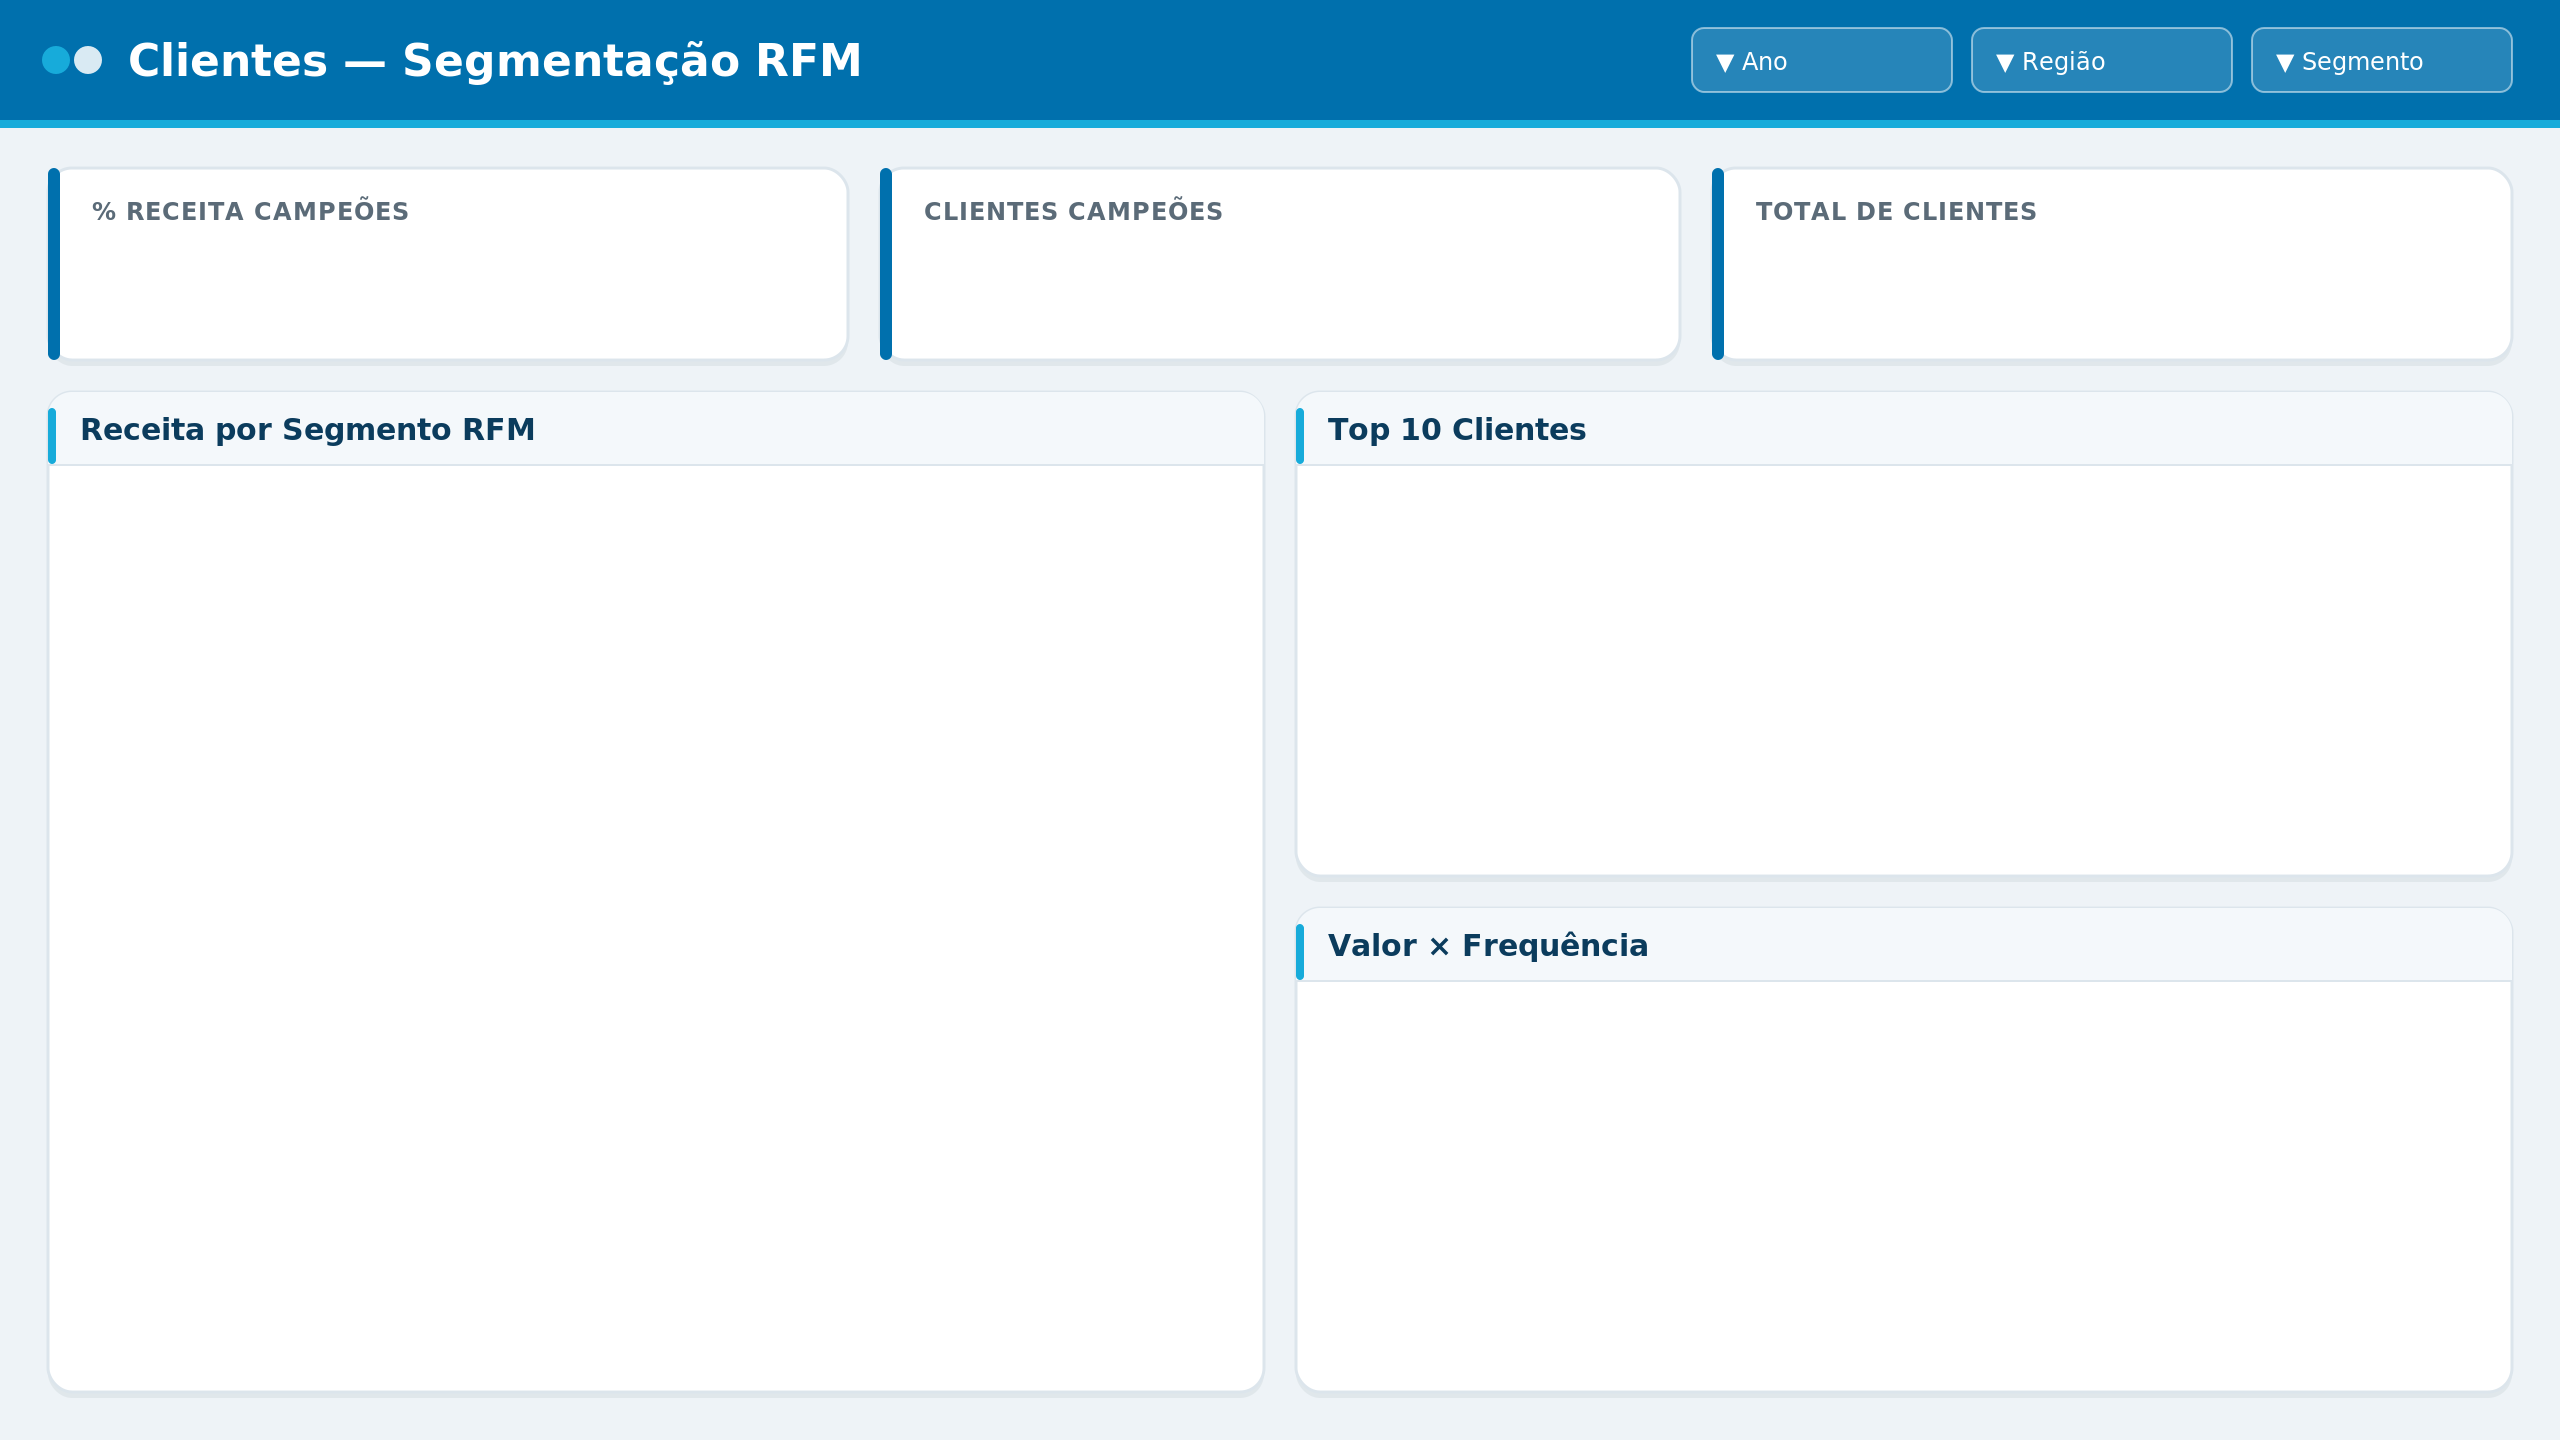
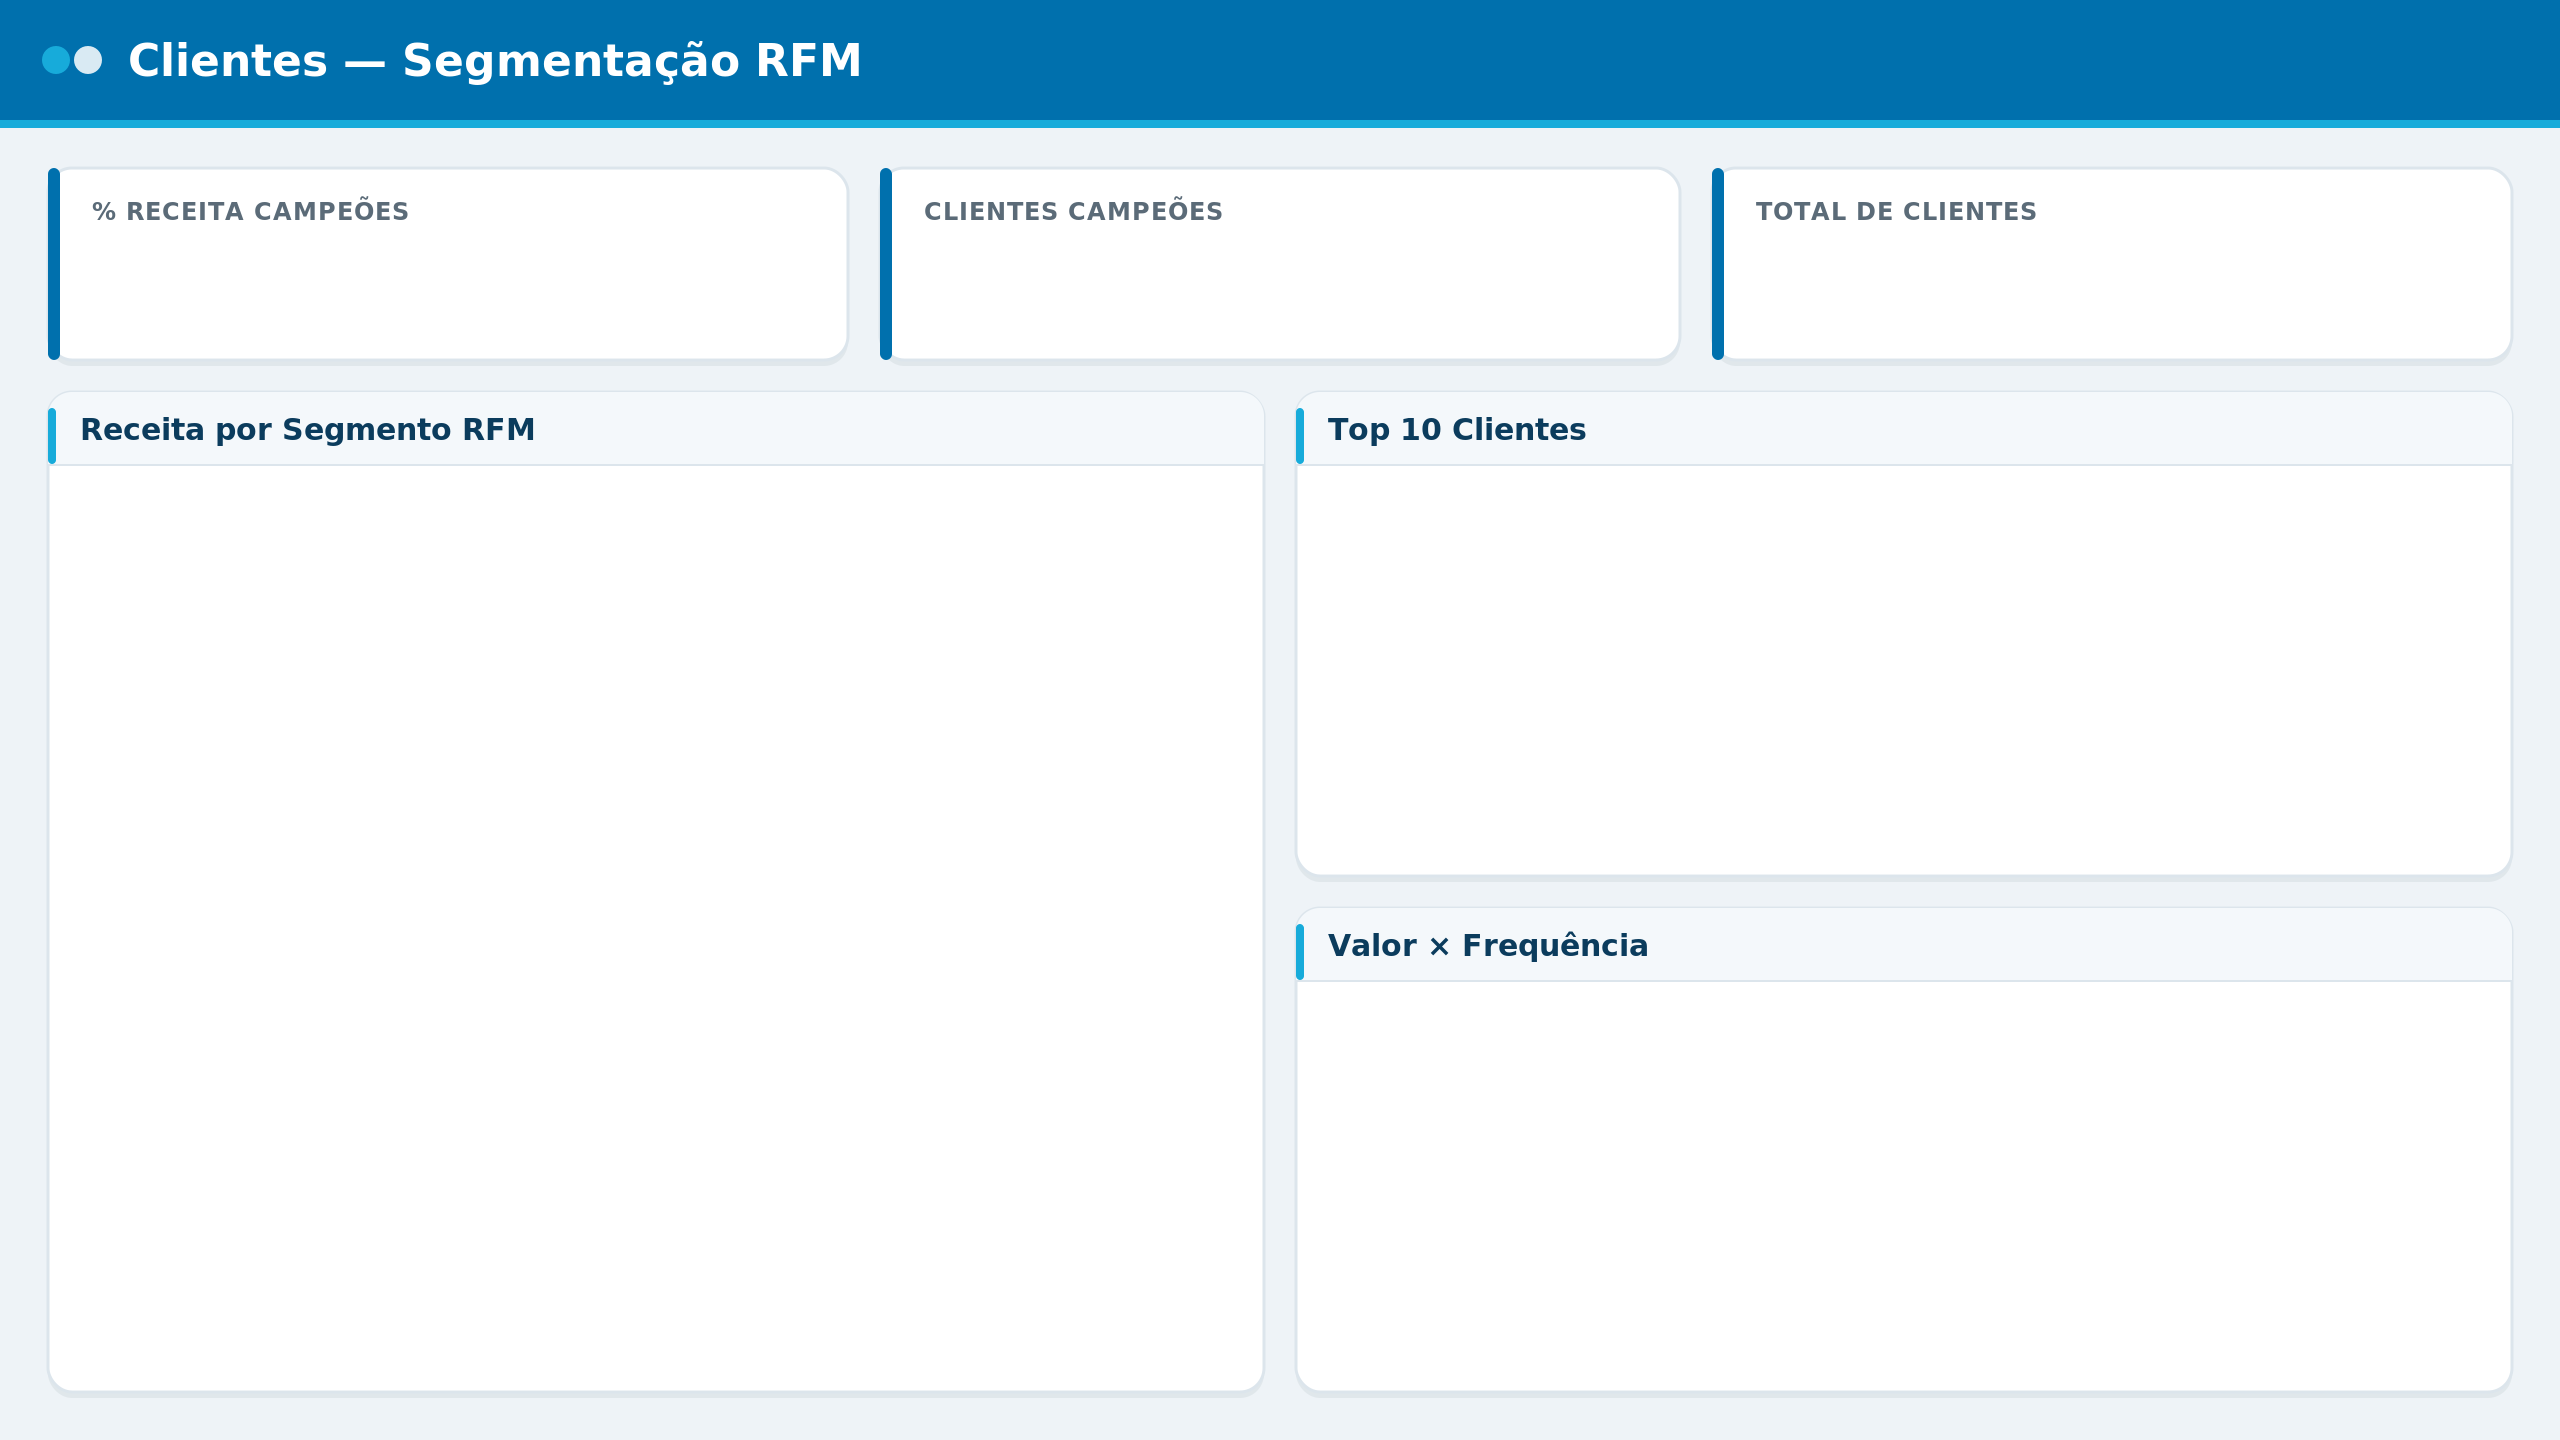
atualiza README com links, remove filtros dos backgrounds e ajusta proximos passos

Changed region(s): [[0.6562, 0.0, 1.0, 0.0625]]

diff --git a/apresentacao/conteudo_slides.md b/apresentacao/conteudo_slides.md
@@ -1,0 +1,61 @@
+# Conteúdo para os slides (copiar/colar no Canva)
+
+> Os diagramas estão em `apresentacao/arquitetura_solucao.png` e `apresentacao/arquitetura_ia.png`.
+> No Canva: **Uploads → enviar a imagem → arrastar para o slide**.
+
+---
+
+## Slide 3 — Arquitetura da Solução
+**Imagem:** `arquitetura_solucao.png` (ocupando a maior parte do slide).
+
+**Legenda / fala:** "Uma fonte única de verdade — o banco — alimenta tanto o dashboard quanto a IA. Os dados entram via ETL e, a partir do banco, o fluxo se divide em duas camadas: visualização no Power BI e a camada de IA. Como os dois leem o mesmo banco, os números sempre batem."
+
+---
+
+## Slide — "A Inteligência Artificial que Transforma Decisões"
+**Imagem:** `arquitetura_ia.png`.
+
+**Tópicos (bullets):**
+- **Persona "Ana":** analista de BI que responde com evidência — nunca de forma genérica.
+- **Tool Calling:** o modelo (Gemini) gera uma consulta SQL, nós executamos no banco e ela responde com o **número real**. Como o dado vem de uma consulta, é impossível alucinar.
+- **RAG:** camada extra sobre um documento de regras de negócio (definições, políticas, playbooks). A Ana **combina a regra com o dado**.
+- **Grounding obrigatório:** nunca responde sem consultar o banco; sempre cita a fonte (a consulta executada).
+- **Honestidade:** se o dado não existe, diz "não é possível concluir" em vez de inventar.
+
+**Fala-chave:** "Duas técnicas de IA aplicada: tool calling para os dados estruturados e RAG para o conhecimento de negócio."
+
+---
+
+## Slide NOVO 1 — Deploy: a solução no ar
+**Título:** Deploy — a solução publicada
+
+**Tópicos:**
+- App da Ana **publicado no Streamlit Community Cloud** — link público.
+- **Acesso 24/7:** o avaliador conversa com a Ana a qualquer hora, sem instalar nada.
+- Banco **versionado no repositório**; em produção o app apenas lê (somente leitura).
+- **Chave da IA protegida** em "Secrets" — fora do código e do GitHub.
+- **Resiliência:** retry automático + fallback de modelo se houver instabilidade.
+
+**Fala:** "Deploy não era obrigatório, mas fiz para tornar a solução tangível: é só abrir o link e usar."
+
+**Visual sugerido:** um print do app + a URL `https://projeto-desafio-capgemini.streamlit.app` em destaque.
+
+---
+
+## Slide NOVO 2 — A Ana onde o cliente está
+**Título:** A Ana em qualquer canal (Telegram e além)
+
+**Tópicos:**
+- A **mesma Ana**, agora também num **bot de Telegram**.
+- **Núcleo desacoplado do canal:** web e Telegram chamam a mesma função `perguntar()`.
+- **Plugável em qualquer canal** — WhatsApp, Slack, Teams — **sem refazer a lógica de IA**.
+- Visão de produto: "conecte seus dados, escolha o canal, a inteligência é a mesma".
+    
+**Fala:** "Como a camada de IA é desacoplada, levar a Ana para o WhatsApp ou Slack é só trocar a casca — o cérebro continua o mesmo."
+
+**Visual sugerido:** o ícone do Telegram conectado ao "núcleo da Ana", com WhatsApp/Slack/Teams ao lado (mais apagados) apontando para o mesmo núcleo. Ideia de "hub central, vários canais".
+
+---
+
+## Onde encaixar os 2 slides novos no deck
+Sugestão de ordem: ... → slide da IA (Ana) → **Deploy** → **A Ana em qualquer canal** → slide final (Decisões/Limitações). Assim os diferenciais aparecem logo depois da estrela (a IA) e antes do fechamento.

diff --git a/README.md b/README.md
@@ -4,11 +4,13 @@ Solução de análise de dados de vendas (varejo) com uma camada de IA capaz de 
 
 > Projeto desenvolvido como case de consultoria em Data & AI.
 
-## 🚀 Aplicação publicada
+## 🚀 Acesso à solução
 
-**Converse com a Ana (app web):** https://projeto-desafio-capgemini.streamlit.app
+- **App web — converse com a Ana:** https://projeto-desafio-capgemini.streamlit.app
+- **Dashboard Power BI (publicado):** https://app.powerbi.com/view?r=eyJrIjoiZTVjNjdkNmQtNWUwYi00Y2ZjLTkzMDUtMWJjYTJhNDkyZjQyIiwidCI6IjBmZTQ4ZWY3LTc3M2QtNDJkNy1iY2Y4LWJhYzNmOGNkMDc4NCJ9
+- **Telegram:** a mesma Ana também roda como bot de Telegram, demonstrando que o núcleo de IA é desacoplado do canal. Como o bot roda localmente (polling), veja a seção 6 para iniciá-lo (`python app/telegram_bot.py`).
 
-> Obs.: o app está hospedado no Streamlit Community Cloud (tier gratuito). Se ele estiver hibernando por inatividade, clique em **"Yes, get this app back up!"** e aguarde alguns segundos até ele acordar.
+> Obs.: o app web está no Streamlit Community Cloud (tier gratuito). Se estiver hibernando por inatividade, clique em **"Yes, get this app back up!"** e aguarde alguns segundos até ele acordar.
 
 ---
 
@@ -126,9 +128,6 @@ Receita total · Lucro total · Margem % · Ticket médio · Nº de pedidos/clie
 
 **Destaques do dataset:** receita de ~US$ 2,30M, margem de 12,5%; os clientes "Campeões" (RFM) são ~24% da base e geram ~40% da receita; descontos acima de 20% levam a prejuízo médio por venda.
 
-## 8. Limitações
+## 8. Próximos passos
 
-- A base não contém **custo de produto** (só preço e lucro registrado), então não é possível calcular margem de contribuição por insumo.
-- Dataset histórico (2014–2017) e de um único mercado (EUA) — não reflete tempo real.
-- A IA responde sobre os dados disponíveis no banco; perguntas fora desse escopo são respondidas com "não é possível concluir".
-- Solução em SQLite, voltada ao desafio — não dimensionada para produção/alta escala.
+- **Migrar do SQLite para o PostgreSQL.** O SQLite foi escolhido pela simplicidade do desafio; em um cenário de produção, o PostgreSQL traria mais robustez e permitiria usar **DirectQuery** no Power BI. A arquitetura já é desacoplada, então a troca exige mudar apenas a camada de conexão.